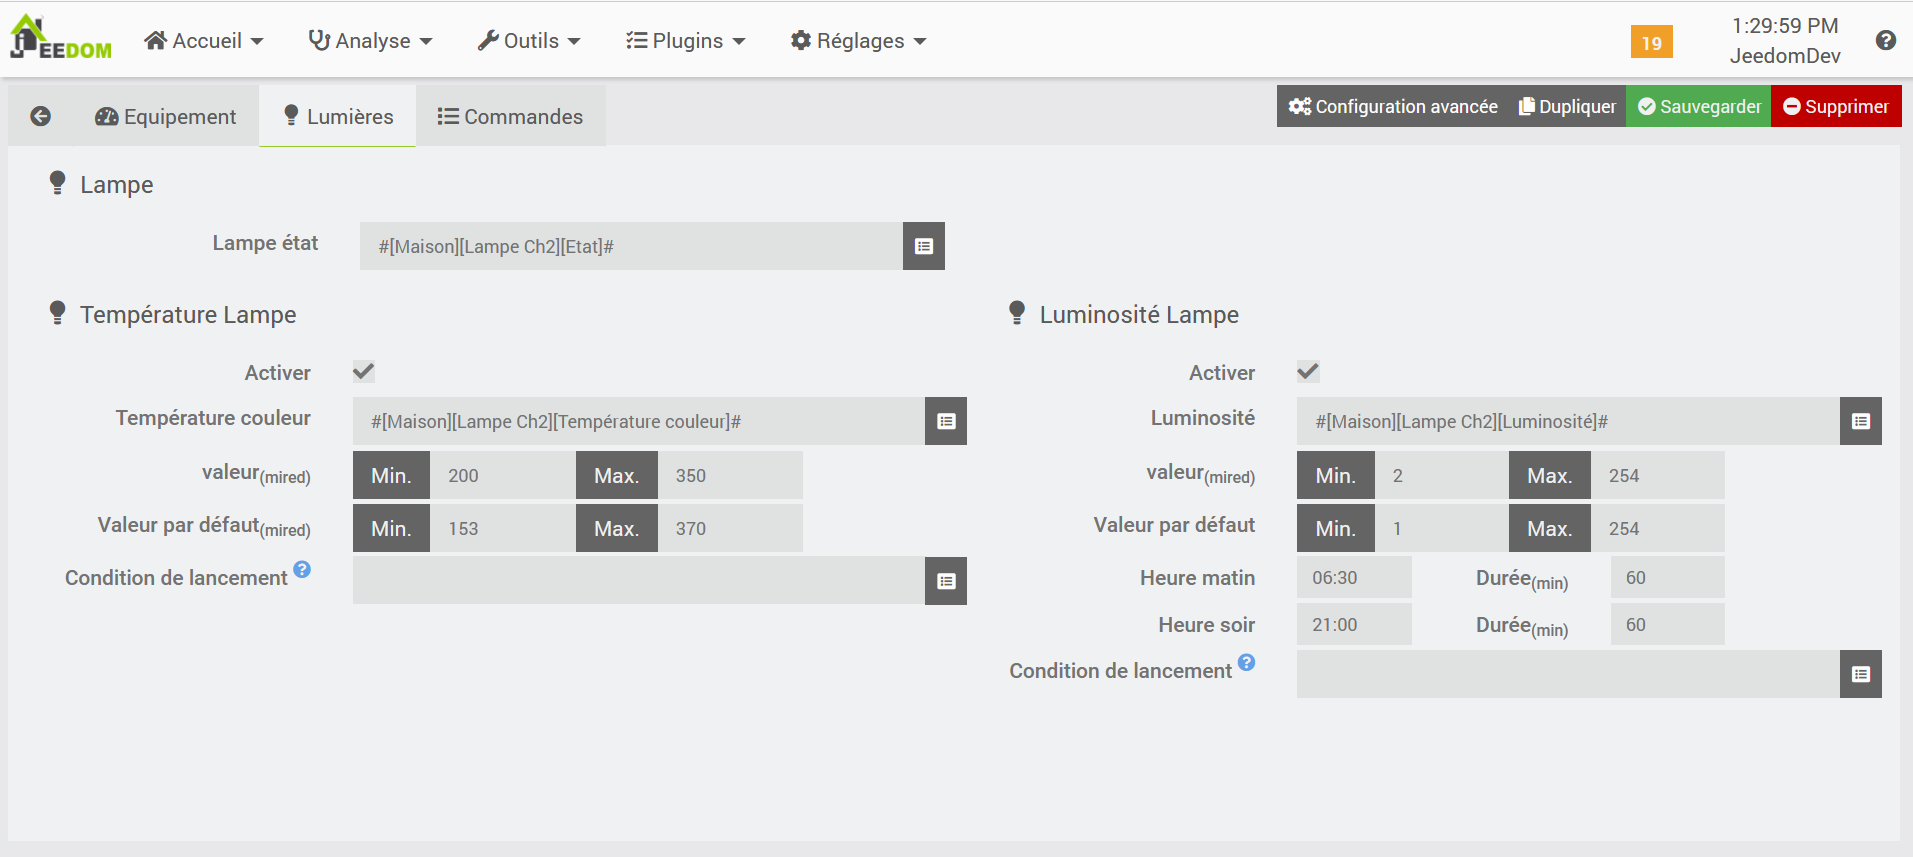
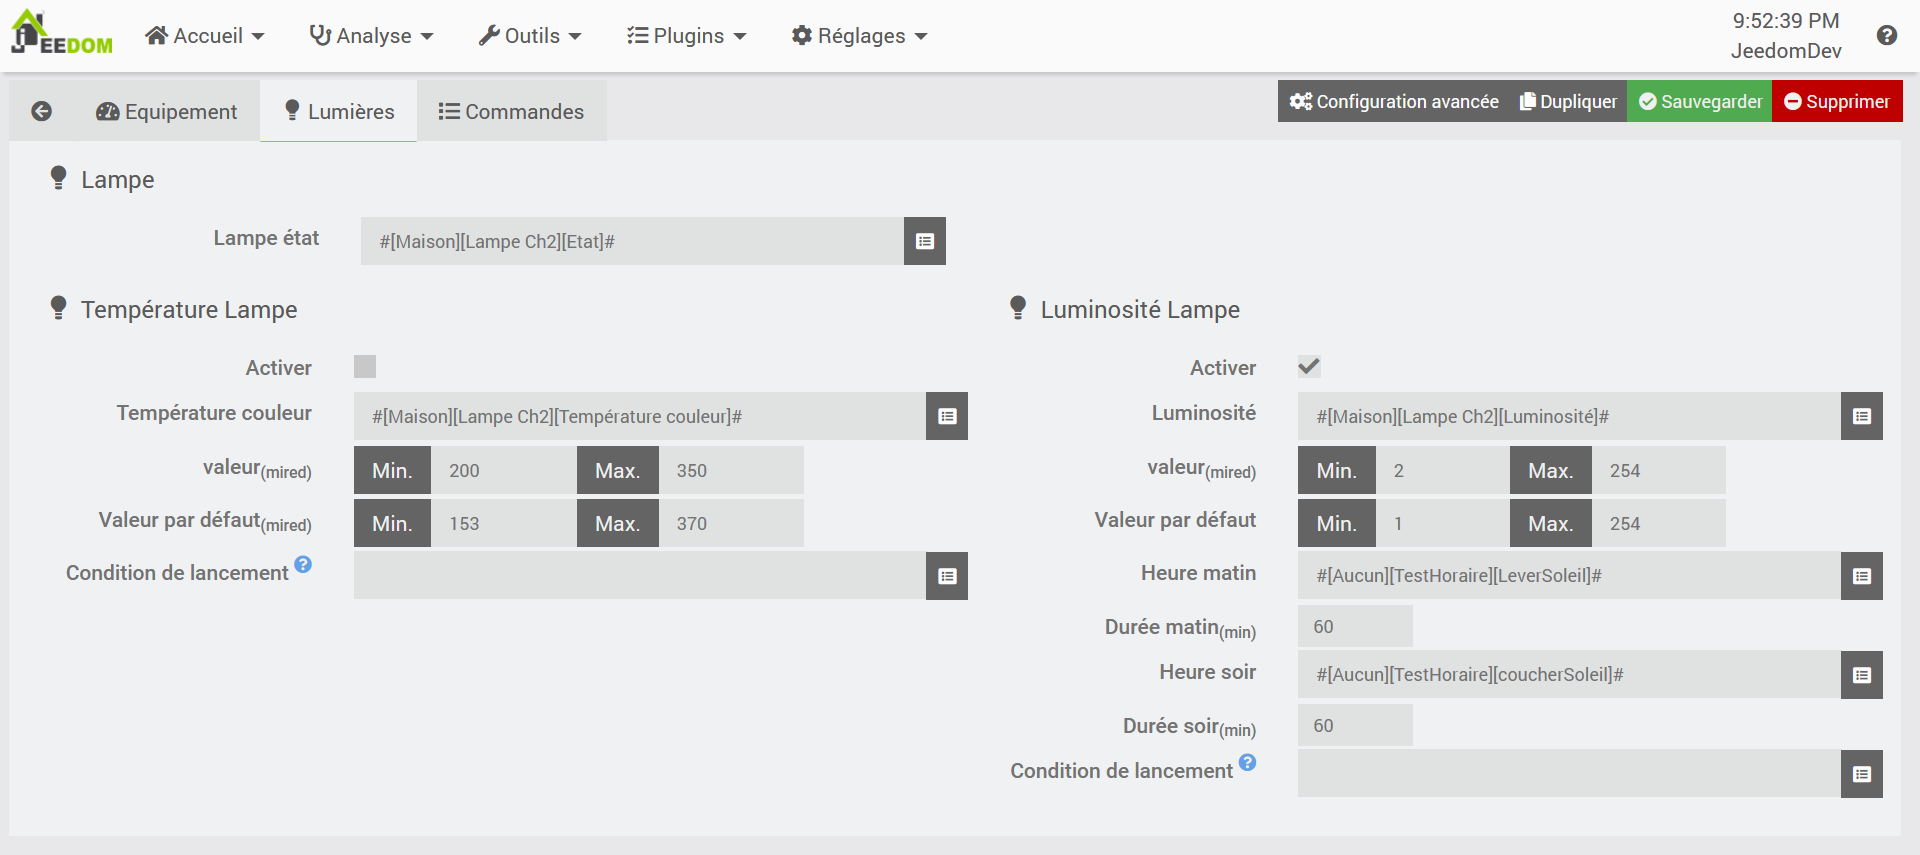
NEW : Heure matin et soir : Gestion de commande, Mise en forme et documentation

diff --git a/desktop/js/naturalLight.js b/desktop/js/naturalLight.js
@@ -98,7 +98,7 @@ $(".eqLogic").delegate(".listCmdInfoBinary", 'click', function () {
 });
 
 $(".eqLogic").delegate(".listCmdInfo", 'click', function () {
-  var el = $(this).closest('.form-group').find('.eqLogicAttr').first();
+  var el = $(this).closest('.form-group').find('.eqLogicAttr');
   jeedom.cmd.getSelectModal({ cmd: { type: 'info' } }, function (result) {
     if (el.attr('data-concat') == 1) {
       el.atCaret('insert', result.human);

diff --git a/desktop/php/naturalLight.php b/desktop/php/naturalLight.php
@@ -284,9 +284,9 @@ $eqLogics = eqLogic::byType($plugin->getId());
 
 								<div class="form-group">
 									<label class="col-sm-4 control-label">Heure matin</label>
-									<div class="col-sm-2">
+									<div class="col-xs-11 col-sm-8">
 										<div class="input-group">
-											<input class="eqLogicAttr form-control input-sm" data-l1key="configuration" data-l2key="morningHour">
+											<input type="text" class="eqLogicAttr form-control" data-l1key="configuration" data-l2key="morningHour">
 											<span class="input-group-btn">
 												<a class="btn btn-default listCmdInfo">
 													<i class="fas fa-list-alt"></i>
@@ -294,17 +294,20 @@ $eqLogics = eqLogic::byType($plugin->getId());
 											</span>
 										</div>
 									</div>
-									<label class="col-sm-2 control-label">Durée<sub>(min)</sub></label>
-									<div class="col-sm-2 has-success">
+								</div>
+
+								<div class="form-group">
+									<label class="col-sm-4 control-label">Durée matin<sub>(min)</sub></label>
+									<div class="col-sm-2">
 										<input class="eqLogicAttr form-control input-sm" data-l1key="configuration" data-l2key="morningDuration" value="60">
 									</div>
 								</div>
 
 								<div class="form-group">
 									<label class="col-sm-4 control-label">Heure soir</label>
-									<div class="col-sm-2">
+									<div class="col-xs-11 col-sm-8">
 										<div class="input-group">
-											<input class="eqLogicAttr form-control input-sm" data-l1key="configuration" data-l2key="eveningHour">
+											<input type="text" class="eqLogicAttr form-control" data-l1key="configuration" data-l2key="eveningHour">
 											<span class="input-group-btn">
 												<a class="btn btn-default listCmdInfo">
 													<i class="fas fa-list-alt"></i>
@@ -312,8 +315,11 @@ $eqLogics = eqLogic::byType($plugin->getId());
 											</span>
 										</div>
 									</div>
-									<label class="col-sm-2 control-label">Durée<sub>(min)</sub></label>
-									<div class="col-sm-2 has-success">
+								</div>
+
+								<div class="form-group">
+									<label class="col-sm-4 control-label">Durée soir<sub>(min)</sub></label>
+									<div class="col-sm-2">
 										<input class="eqLogicAttr form-control input-sm" data-l1key="configuration" data-l2key="eveningDuration" value="60">
 									</div>
 								</div>

diff --git a/docs/fr_FR/changelog.md b/docs/fr_FR/changelog.md
@@ -8,7 +8,7 @@
 
 - Debug : Ne plus bloquer si le type générique n'est pas le bon
           Tentative pour gérer une lampe Yeelight
-- NEW : Gestion d'un commande pour les horaires de Luminosité
+- NEW : Gestion d'un commande pour les horaires matin et soir de Luminosité
 
 # 29/03/2023 - DEBUG & STABLE
 
